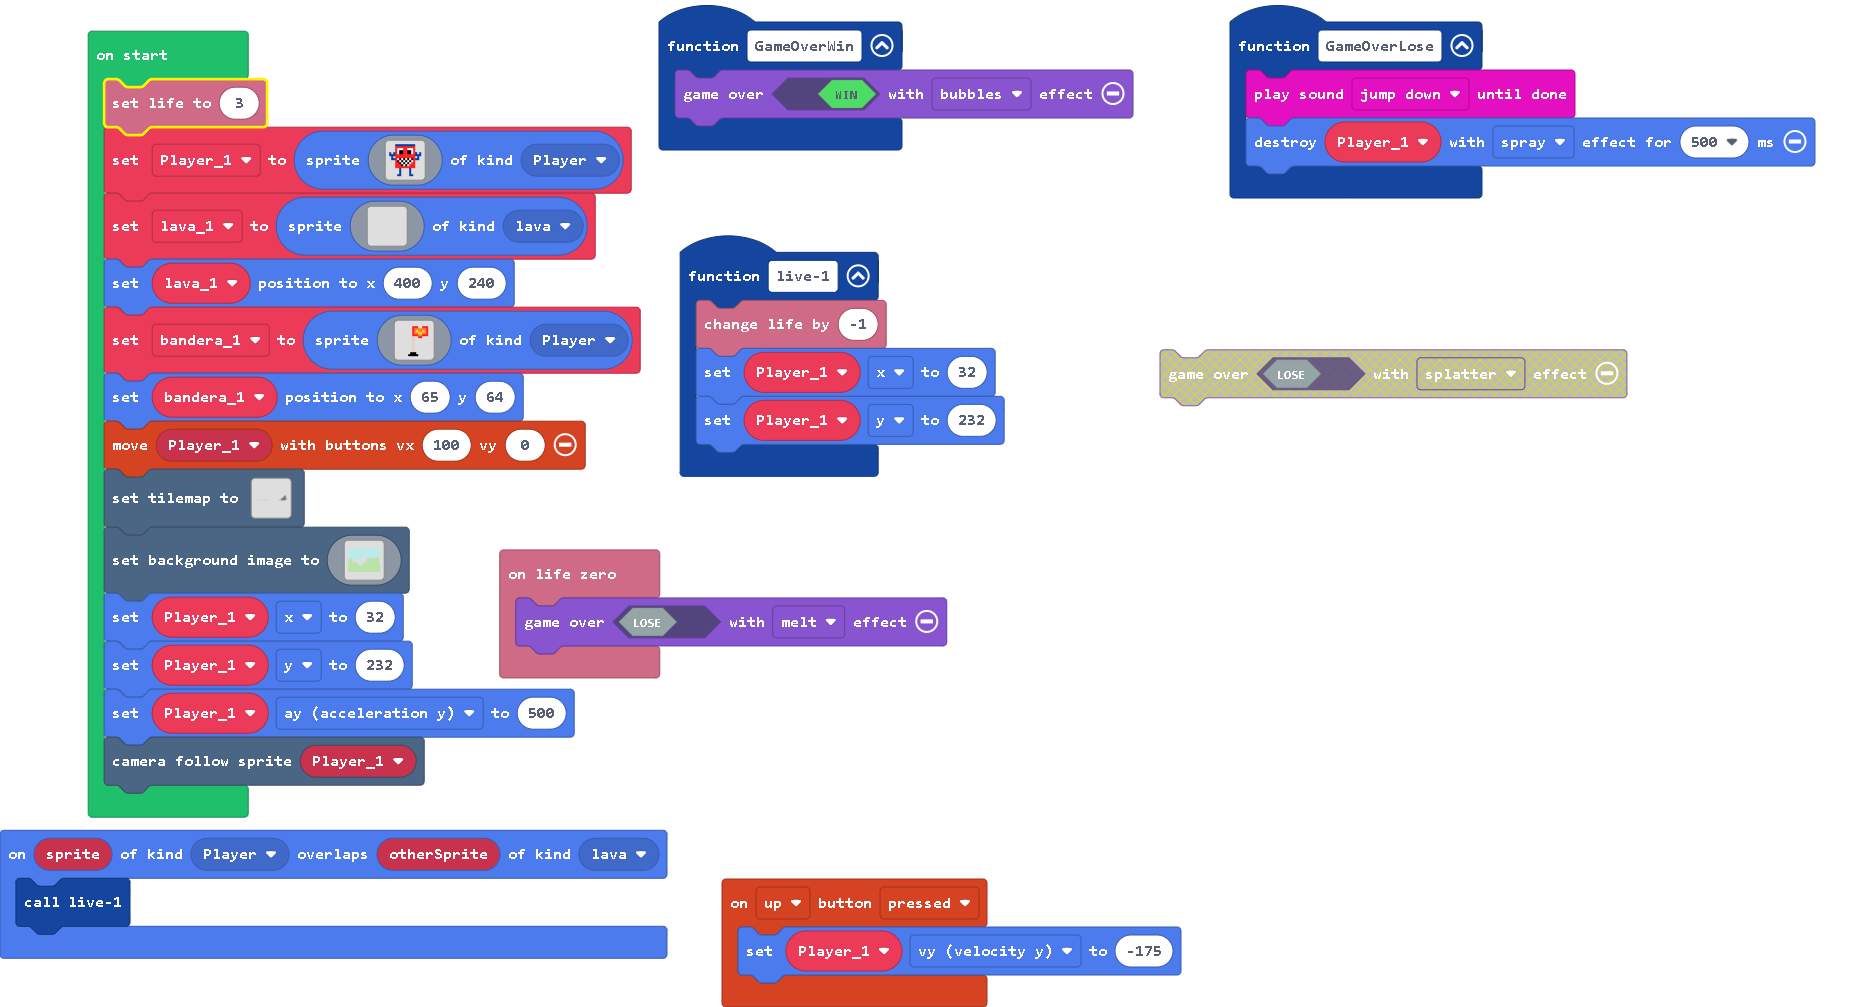
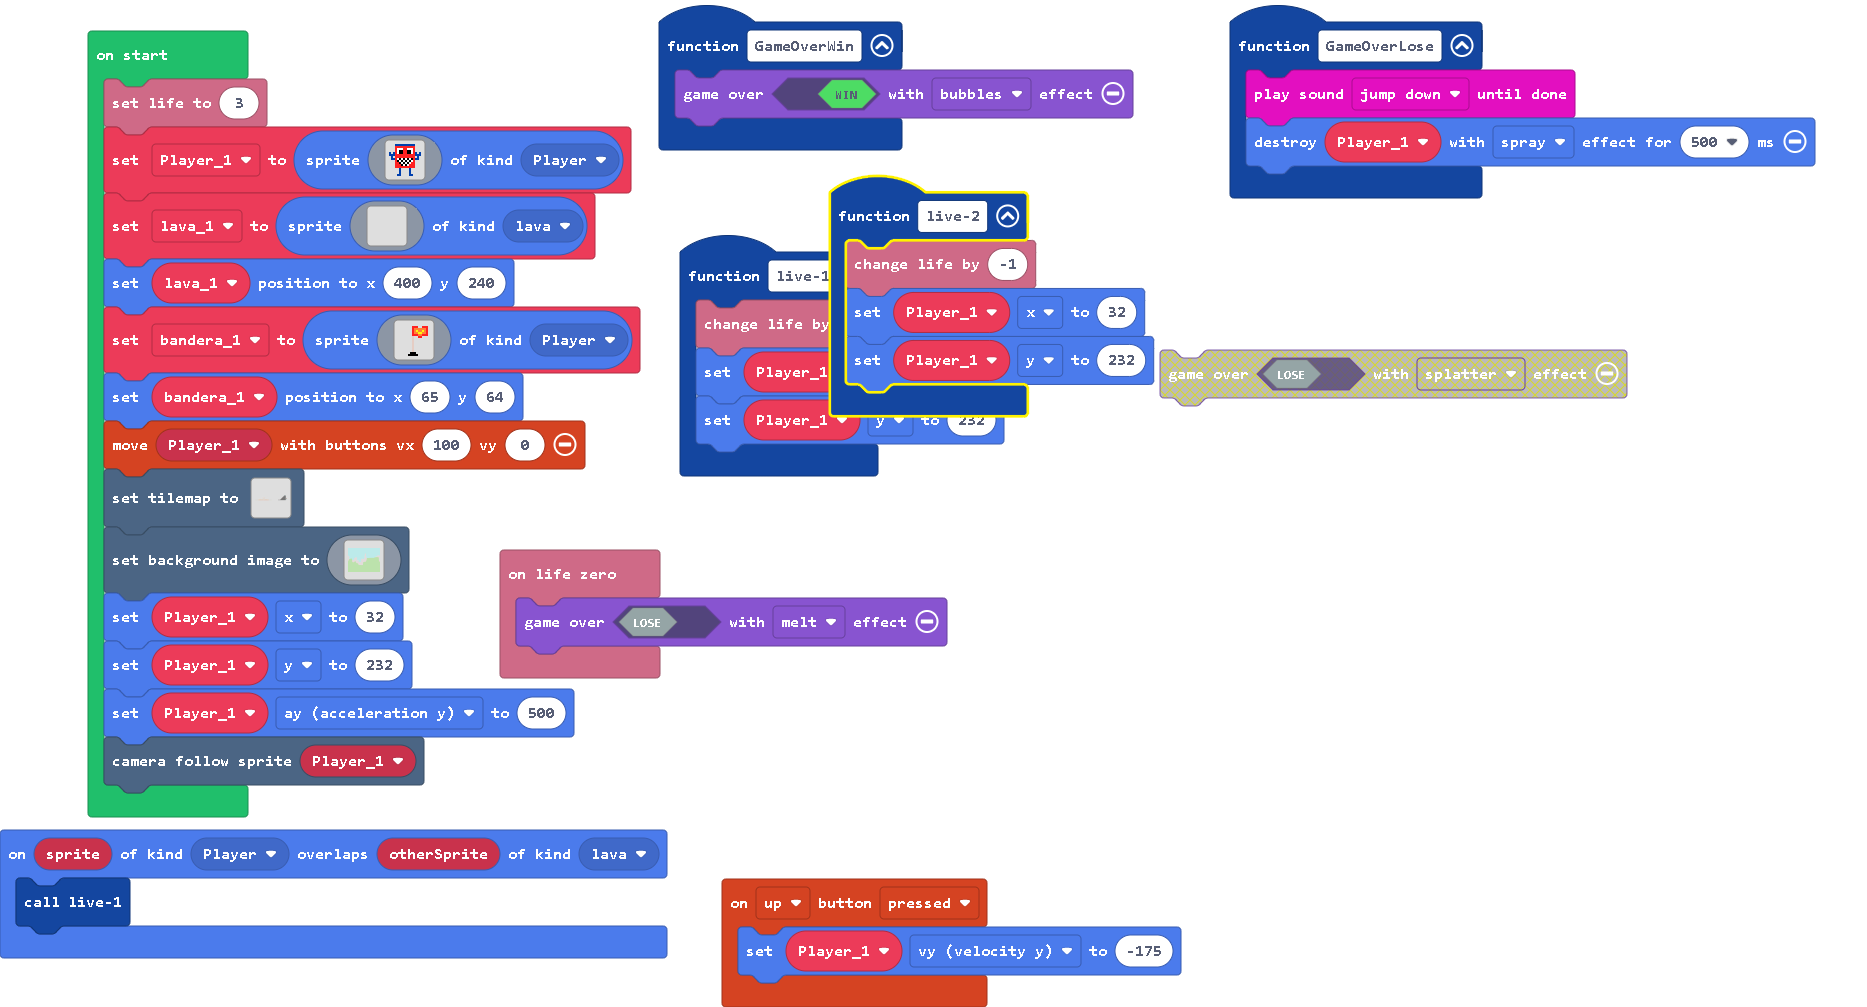
prueba de guardado

diff --git a/main.ts b/main.ts
@@ -8,6 +8,11 @@ function GameOverLose () {
     music.jumpDown.playUntilDone()
     Player_1.destroy(effects.spray, 500)
 }
+function live2 () {
+    info.changeLifeBy(-1)
+    Player_1.x = 32
+    Player_1.y = 232
+}
 sprites.onOverlap(SpriteKind.Player, SpriteKind.lava, function (sprite, otherSprite) {
     live1()
 })
